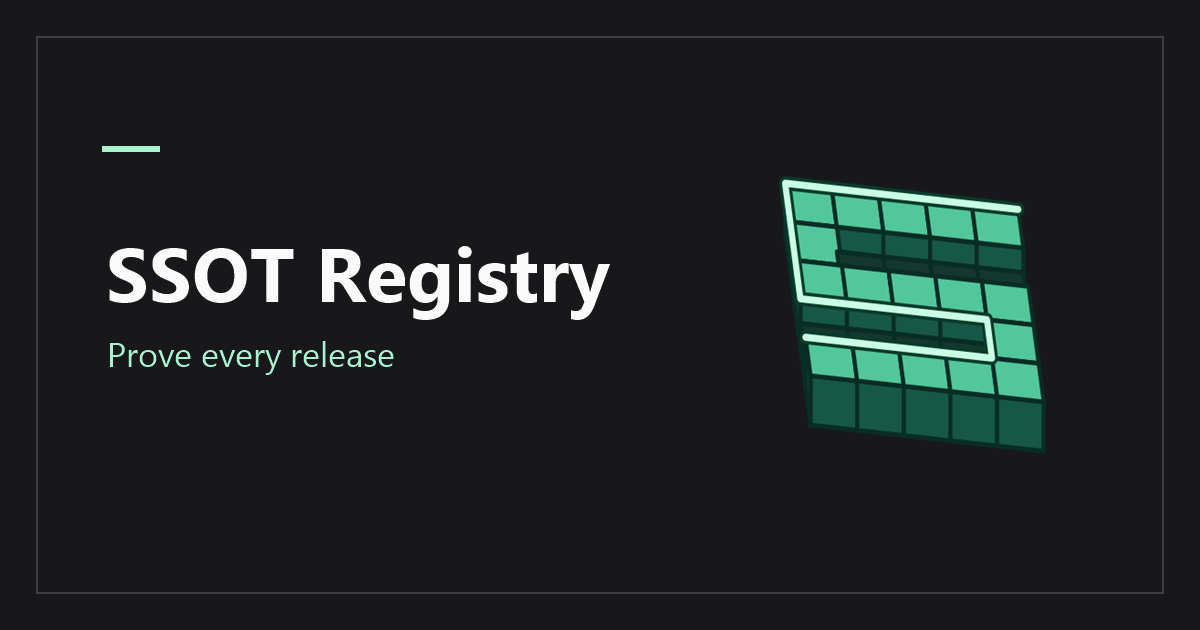
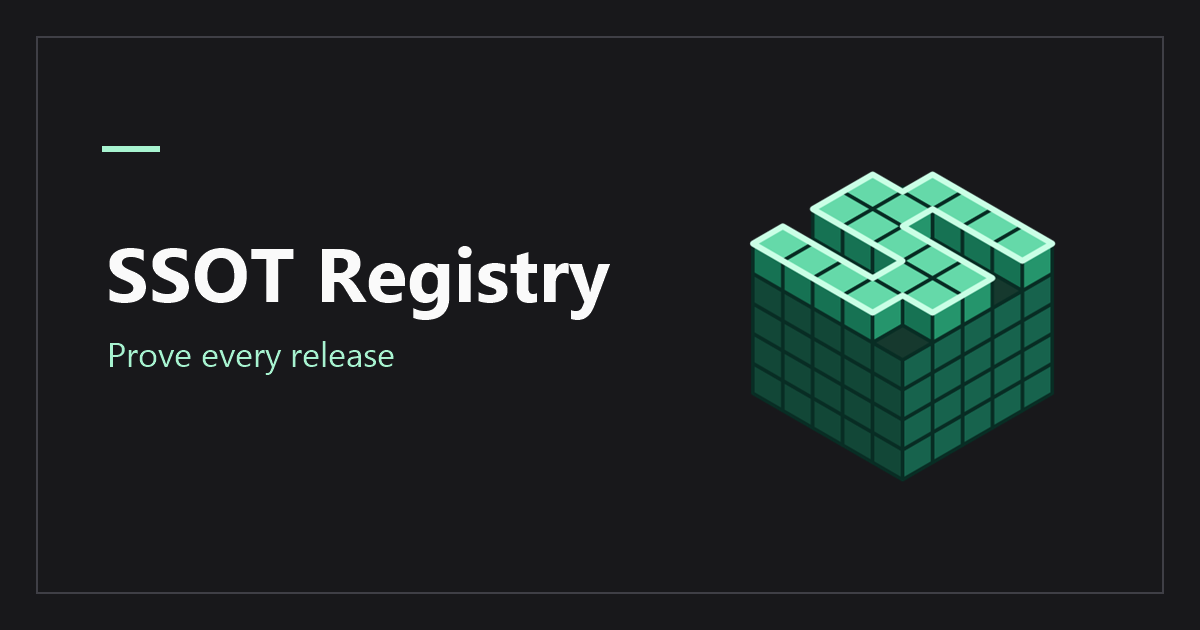
Restore isometric depth to the SSOT Registry S cube

Changed region(s): [[0.6167, 0.2714, 0.8942, 0.754]]

diff --git a/index.html b/index.html
@@ -27,7 +27,7 @@
     <meta property="og:image:height" content="630" />
     <meta
       property="og:image:alt"
-      content="SSOT Registry wordmark beside a transparent five-by-five lattice mark whose raised cells form an S."
+      content="SSOT Registry wordmark beside an isometric five-by-five cube with an S formed by raised mint blocks and recessed cells."
     />
 
     <meta name="twitter:card" content="summary_large_image" />
@@ -39,7 +39,7 @@
     <meta name="twitter:image" content="https://ssot-registry.com/og-image.png" />
     <meta
       name="twitter:image:alt"
-      content="SSOT Registry wordmark beside a transparent five-by-five lattice mark whose raised cells form an S."
+      content="SSOT Registry wordmark beside an isometric five-by-five cube with an S formed by raised mint blocks and recessed cells."
     />
   </head>
   <body>
